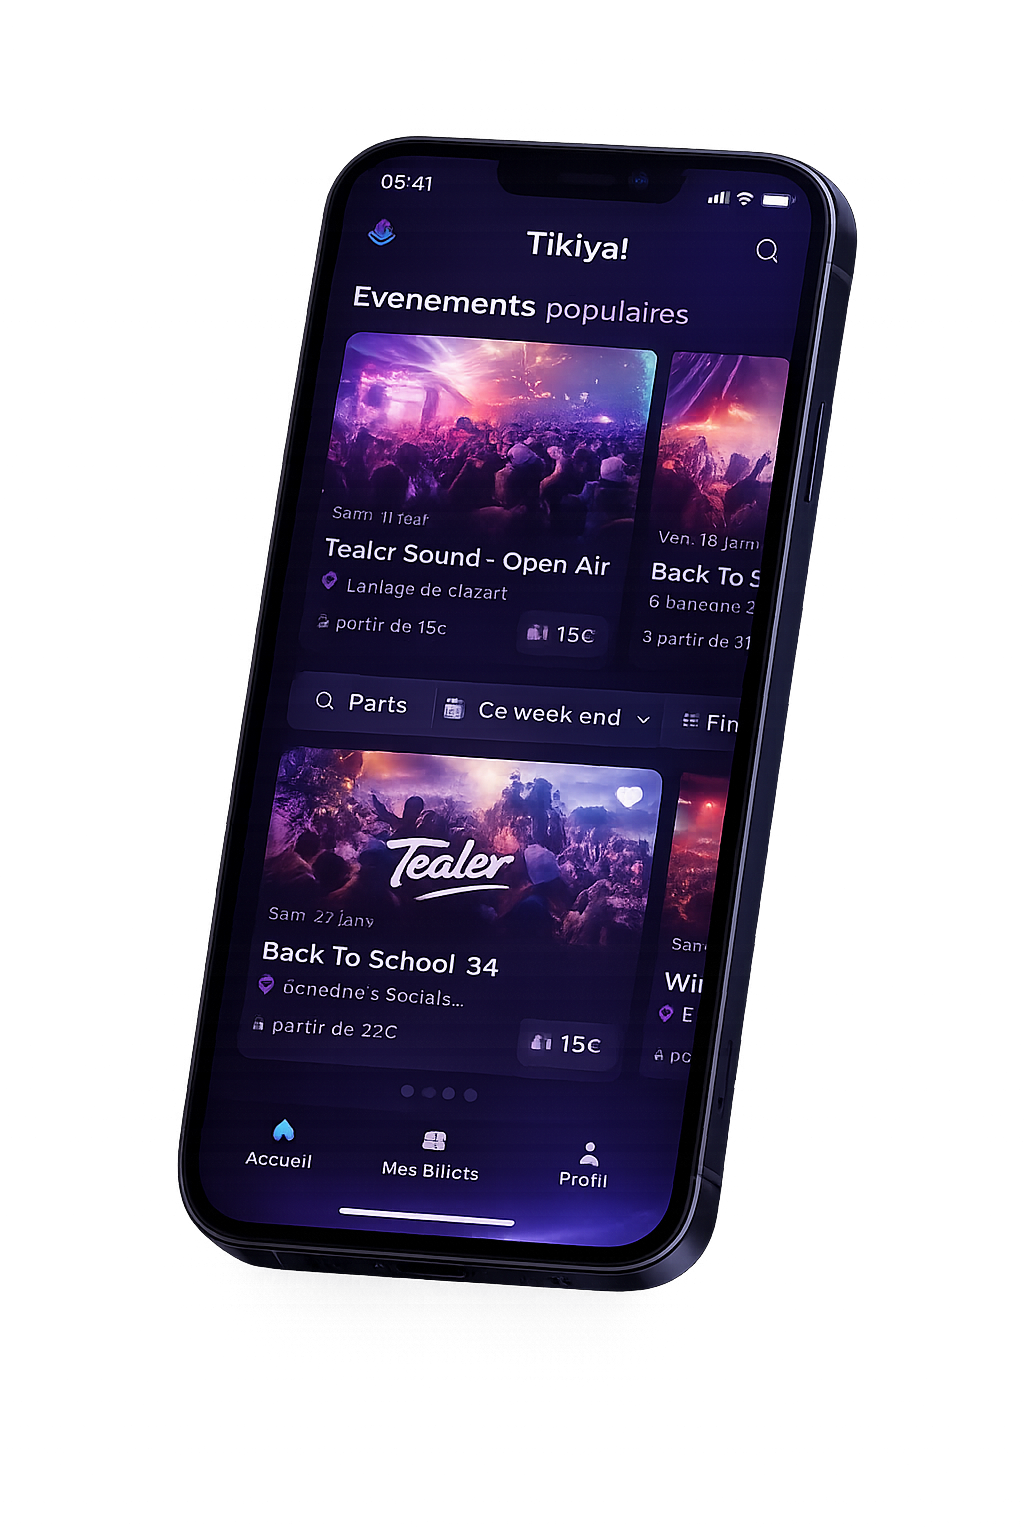
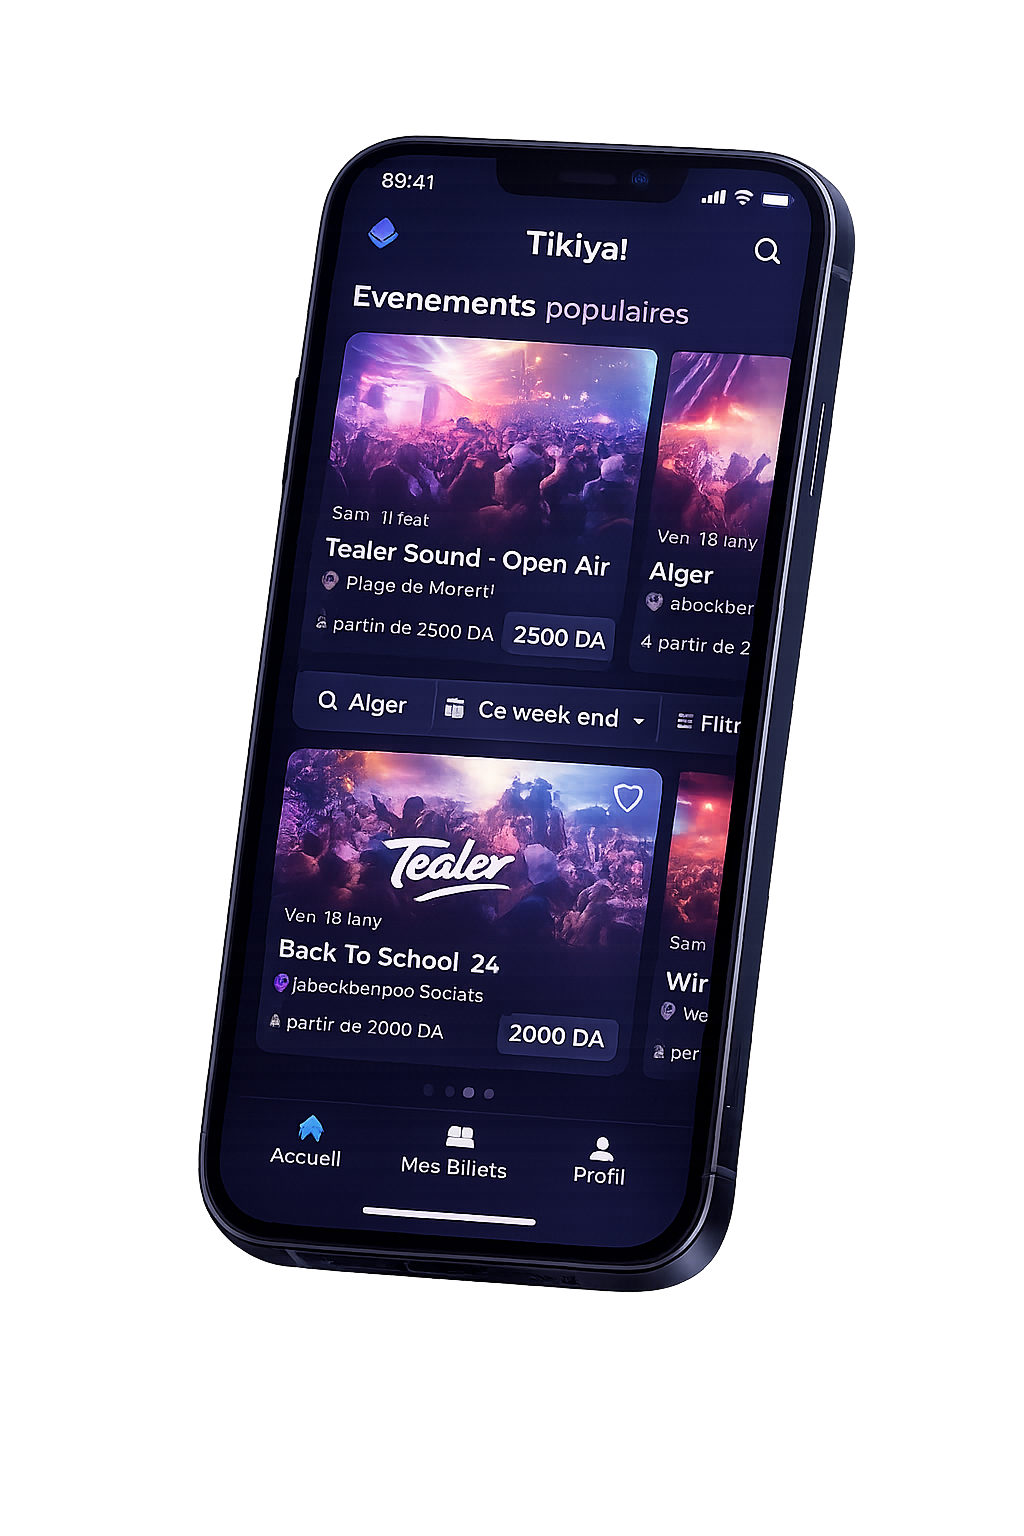
[FIX] front web

Changed region(s): [[0.1562, 0.0938, 0.8438, 0.8438], [0.3125, 0.0938, 0.4375, 0.1562], [0.5938, 0.0938, 0.6562, 0.125]]

diff --git a/App_web/tikiya_web/lib/screens/home_screen.dart b/App_web/tikiya_web/lib/screens/home_screen.dart
@@ -1,6 +1,7 @@
 import 'dart:ui';
 
 import 'package:flutter/material.dart';
+import 'package:flutter/rendering.dart';
 import 'package:google_fonts/google_fonts.dart';
 import '../ui/tikiya_colors.dart';
 import '../ui/pattern_band.dart';
@@ -39,33 +40,31 @@ class HomeScreen extends StatelessWidget {
                               LayoutBuilder(
                                 builder: (context, constraints) {
                                   final wide = constraints.maxWidth >= 920;
-                                  final left = _HeroCopy(textTheme: textTheme);
-                                  final right = const _PhoneMock();
-
                                   if (!wide) {
-                                    return Column(
-                                      crossAxisAlignment: CrossAxisAlignment.start,
+                                    final left = _HeroCopy(textTheme: textTheme);
+                                    return Stack(
+                                      clipBehavior: Clip.none,
                                       children: [
-                                        left,
-                                        const SizedBox(height: 20),
-                                        Align(
-                                          alignment: Alignment.centerRight,
-                                          child: ConstrainedBox(
-                                            constraints: const BoxConstraints(maxWidth: 420),
-                                            child: right,
+                                        Positioned(
+                                          right: 0,
+                                          top: 0,
+                                          child: IgnorePointer(
+                                            child: ConstrainedBox(
+                                              constraints: const BoxConstraints(maxWidth: 420),
+                                              child: Transform.translate(
+                                                offset: const Offset(0, -40),
+                                                child: const _PhoneMock(),
+                                              ),
+                                            ),
                                           ),
                                         ),
-                                        const SizedBox(height: 22),
-                                        const _SearchPanel(),
-                                        const SizedBox(height: 14),
-                                        const _CategoryChips(),
-                                        const SizedBox(height: 18),
-                                        Center(
-                                          child: _PrimaryButton(
-                                            label: 'Voir tous les événements',
-                                            onPressed: () {},
-                                            icon: Icons.arrow_forward_rounded,
-                                          ),
+                                        Column(
+                                          crossAxisAlignment: CrossAxisAlignment.start,
+                                          children: [
+                                            left,
+                                            const SizedBox(height: 25),
+                                            const _HeroBottomBlock(),
+                                          ],
                                         ),
                                       ],
                                     );
@@ -73,33 +72,9 @@ class HomeScreen extends StatelessWidget {
 
                                   return Column(
                                     crossAxisAlignment: CrossAxisAlignment.stretch,
-                                    children: [
-                                      Stack(
-                                        clipBehavior: Clip.none,
-                                        children: [
-                                          Row(
-                                            crossAxisAlignment: CrossAxisAlignment.start,
-                                            children: [
-                                              Expanded(flex: 6, child: left),
-                                              const SizedBox(width: 28),
-                                              const Expanded(flex: 5, child: _PhoneMock()),
-                                            ],
-                                          ),
-                                          Positioned(
-                                            left: 0,
-                                            right: 0,
-                                            bottom: 120,
-                                            child: Align(
-                                              alignment: const Alignment(0.10, 1.0),
-                                              child: ConstrainedBox(
-                                                constraints: const BoxConstraints(maxWidth: 940),
-                                                child: const _HeroBottomBlock(),
-                                              ),
-                                            ),
-                                          ),
-                                        ],
-                                      ),
-                                      const SizedBox(height: 10),
+                                    children: const [
+                                      _HeroWide(),
+                                      SizedBox(height: 10),
                                     ],
                                   );
                                 },
@@ -117,6 +92,93 @@ class HomeScreen extends StatelessWidget {
         ],
       ),
     );
+  }
+}
+
+class _HeroWide extends StatefulWidget {
+  const _HeroWide();
+
+  @override
+  State<_HeroWide> createState() => _HeroWideState();
+}
+
+class _HeroWideState extends State<_HeroWide> {
+  double _leftHeight = 0;
+
+  @override
+  Widget build(BuildContext context) {
+    final textTheme = Theme.of(context).textTheme;
+
+    return Stack(
+      clipBehavior: Clip.none,
+      children: [
+        Row(
+          crossAxisAlignment: CrossAxisAlignment.start,
+          children: [
+            Expanded(
+              flex: 6,
+              child: _MeasureSize(
+                onChange: (size) {
+                  if (!mounted) return;
+                  if ((size.height - _leftHeight).abs() <= 0.5) return;
+                  setState(() => _leftHeight = size.height);
+                },
+                child: _HeroCopy(textTheme: textTheme),
+              ),
+            ),
+            const SizedBox(width: 28),
+            const Expanded(flex: 5, child: _PhoneMock()),
+          ],
+        ),
+        Positioned(
+          left: 0,
+          right: 0,
+          top: _leftHeight + 25,
+          child: Align(
+            alignment: Alignment.topCenter,
+            child: ConstrainedBox(
+              constraints: const BoxConstraints(maxWidth: 940),
+              child: const _HeroBottomBlock(),
+            ),
+          ),
+        ),
+      ],
+    );
+  }
+}
+
+class _MeasureSize extends SingleChildRenderObjectWidget {
+  final ValueChanged<Size> onChange;
+
+  const _MeasureSize({
+    required this.onChange,
+    required super.child,
+  });
+
+  @override
+  RenderObject createRenderObject(BuildContext context) {
+    return _RenderMeasureSize(onChange);
+  }
+
+  @override
+  void updateRenderObject(BuildContext context, RenderObject renderObject) {
+    (renderObject as _RenderMeasureSize).onChange = onChange;
+  }
+}
+
+class _RenderMeasureSize extends RenderProxyBox {
+  ValueChanged<Size> onChange;
+  Size? _oldSize;
+
+  _RenderMeasureSize(this.onChange);
+
+  @override
+  void performLayout() {
+    super.performLayout();
+    final newSize = child?.size ?? Size.zero;
+    if (_oldSize == newSize) return;
+    _oldSize = newSize;
+    WidgetsBinding.instance.addPostFrameCallback((_) => onChange(newSize));
   }
 }
 
@@ -392,53 +454,74 @@ class _SearchPanel extends StatelessWidget {
 
   @override
   Widget build(BuildContext context) {
-    return _GlassCard(
-      padding: const EdgeInsets.fromLTRB(14, 12, 14, 12),
-      child: Column(
-        children: [
-          Row(
+    final textTheme = Theme.of(context).textTheme;
+
+    return Center(
+      child: ConstrainedBox(
+        constraints: const BoxConstraints(maxWidth: 940),
+        child: _GlassCard(
+          padding: const EdgeInsets.fromLTRB(16, 14, 16, 14),
+          child: Column(
             children: [
-              Icon(Icons.search_rounded, color: Colors.white.withValues(alpha: 0.75)),
-              const SizedBox(width: 10),
-              Expanded(
-                child: TextField(
-                  style: TextStyle(color: Colors.white.withValues(alpha: 0.92), fontWeight: FontWeight.w600),
-                  decoration: InputDecoration(
-                    hintText: 'Rechercher un événement...',
-                    hintStyle: TextStyle(color: Colors.white.withValues(alpha: 0.45)),
-                    isDense: true,
-                    border: InputBorder.none,
-                  ),
+              Container(
+                height: 54,
+                padding: const EdgeInsets.symmetric(horizontal: 14),
+                decoration: BoxDecoration(
+                  borderRadius: BorderRadius.circular(18),
+                  color: Colors.white.withValues(alpha: 0.06),
+                  border: Border.all(color: Colors.white.withValues(alpha: 0.14)),
                 ),
+                child: Row(
+                  children: [
+                    Container(
+                      width: 36,
+                      height: 36,
+                      decoration: BoxDecoration(
+                        borderRadius: BorderRadius.circular(12),
+                        color: Colors.white.withValues(alpha: 0.08),
+                      ),
+                      child: Icon(Icons.search_rounded, color: Colors.white.withValues(alpha: 0.78), size: 20),
+                    ),
+                    const SizedBox(width: 12),
+                    Expanded(
+                      child: TextField(
+                        style: textTheme.titleSmall?.copyWith(
+                          color: Colors.white.withValues(alpha: 0.92),
+                          fontWeight: FontWeight.w700,
+                        ),
+                        decoration: InputDecoration(
+                          hintText: 'Rechercher un événement…',
+                          hintStyle: textTheme.titleSmall?.copyWith(
+                            color: Colors.white.withValues(alpha: 0.40),
+                            fontWeight: FontWeight.w600,
+                          ),
+                          isDense: true,
+                          border: InputBorder.none,
+                        ),
+                      ),
+                    ),
+                  ],
+                ),
+              ),
+              const SizedBox(height: 12),
+              Wrap(
+                spacing: 10,
+                runSpacing: 10,
+                alignment: WrapAlignment.center,
+                children: [
+                  const _FilterPill(icon: Icons.place_rounded, label: 'Alger'),
+                  const _FilterPill(icon: Icons.event_rounded, label: 'Ce week-end'),
+                  _FilterPill(
+                    icon: Icons.tune_rounded,
+                    label: 'Filtres',
+                    emphasis: true,
+                    onTap: () {},
+                  ),
+                ],
               ),
             ],
           ),
-          const SizedBox(height: 12),
-          LayoutBuilder(
-            builder: (context, constraints) {
-              final compact = constraints.maxWidth < 720;
-
-              final pills = <Widget>[
-                const _FilterPill(icon: Icons.place_rounded, label: 'Paris'),
-                const _FilterPill(icon: Icons.event_rounded, label: 'Ce week-end'),
-                const _FilterPill(icon: Icons.auto_awesome_rounded, label: '+100 événement'),
-                _FilterPill(
-                  icon: Icons.tune_rounded,
-                  label: 'Filtres',
-                  emphasis: true,
-                  onTap: () {},
-                ),
-              ];
-
-              return Wrap(
-                spacing: 10,
-                runSpacing: 10,
-                alignment: compact ? WrapAlignment.start : WrapAlignment.spaceBetween,
-                children: pills,
-              );
-            },
-          ),
-        ],
+        ),
       ),
     );
   }
@@ -453,13 +536,12 @@ class _HeroBottomBlock extends StatelessWidget {
       mainAxisSize: MainAxisSize.min,
       children: [
         const _SearchPanel(),
-        const SizedBox(height: 14),
-        const _CategoryChips(),
         const SizedBox(height: 18),
         Center(
           child: _PrimaryButton(
             label: 'Voir tous les événements',
             onPressed: () {},
+            icon: Icons.arrow_forward_rounded,
           ),
         ),
       ],
@@ -514,63 +596,6 @@ class _FilterPill extends StatelessWidget {
             ],
           ),
         ),
-      ),
-    );
-  }
-}
-
-class _CategoryChips extends StatelessWidget {
-  const _CategoryChips();
-
-  @override
-  Widget build(BuildContext context) {
-    final items = const [
-      (Icons.music_note_rounded, 'Musique'),
-      (Icons.palette_rounded, 'Culture'),
-      (Icons.celebration_rounded, 'Festival'),
-      (Icons.headphones_rounded, 'Techno'),
-    ];
-
-    return Wrap(
-      spacing: 12,
-      runSpacing: 12,
-      alignment: WrapAlignment.center,
-      children: [
-        for (final it in items)
-          _CategoryChip(icon: it.$1, label: it.$2),
-      ],
-    );
-  }
-}
-
-class _CategoryChip extends StatelessWidget {
-  final IconData icon;
-  final String label;
-
-  const _CategoryChip({required this.icon, required this.label});
-
-  @override
-  Widget build(BuildContext context) {
-    return Container(
-      padding: const EdgeInsets.symmetric(horizontal: 14, vertical: 10),
-      decoration: BoxDecoration(
-        borderRadius: BorderRadius.circular(14),
-        color: Colors.white.withValues(alpha: 0.06),
-        border: Border.all(color: Colors.white.withValues(alpha: 0.10)),
-      ),
-      child: Row(
-        mainAxisSize: MainAxisSize.min,
-        children: [
-          Icon(icon, size: 18, color: Colors.white.withValues(alpha: 0.78)),
-          const SizedBox(width: 8),
-          Text(
-            label,
-            style: Theme.of(context).textTheme.labelLarge?.copyWith(
-                  color: Colors.white.withValues(alpha: 0.86),
-                  fontWeight: FontWeight.w700,
-                ),
-          ),
-        ],
       ),
     );
   }
